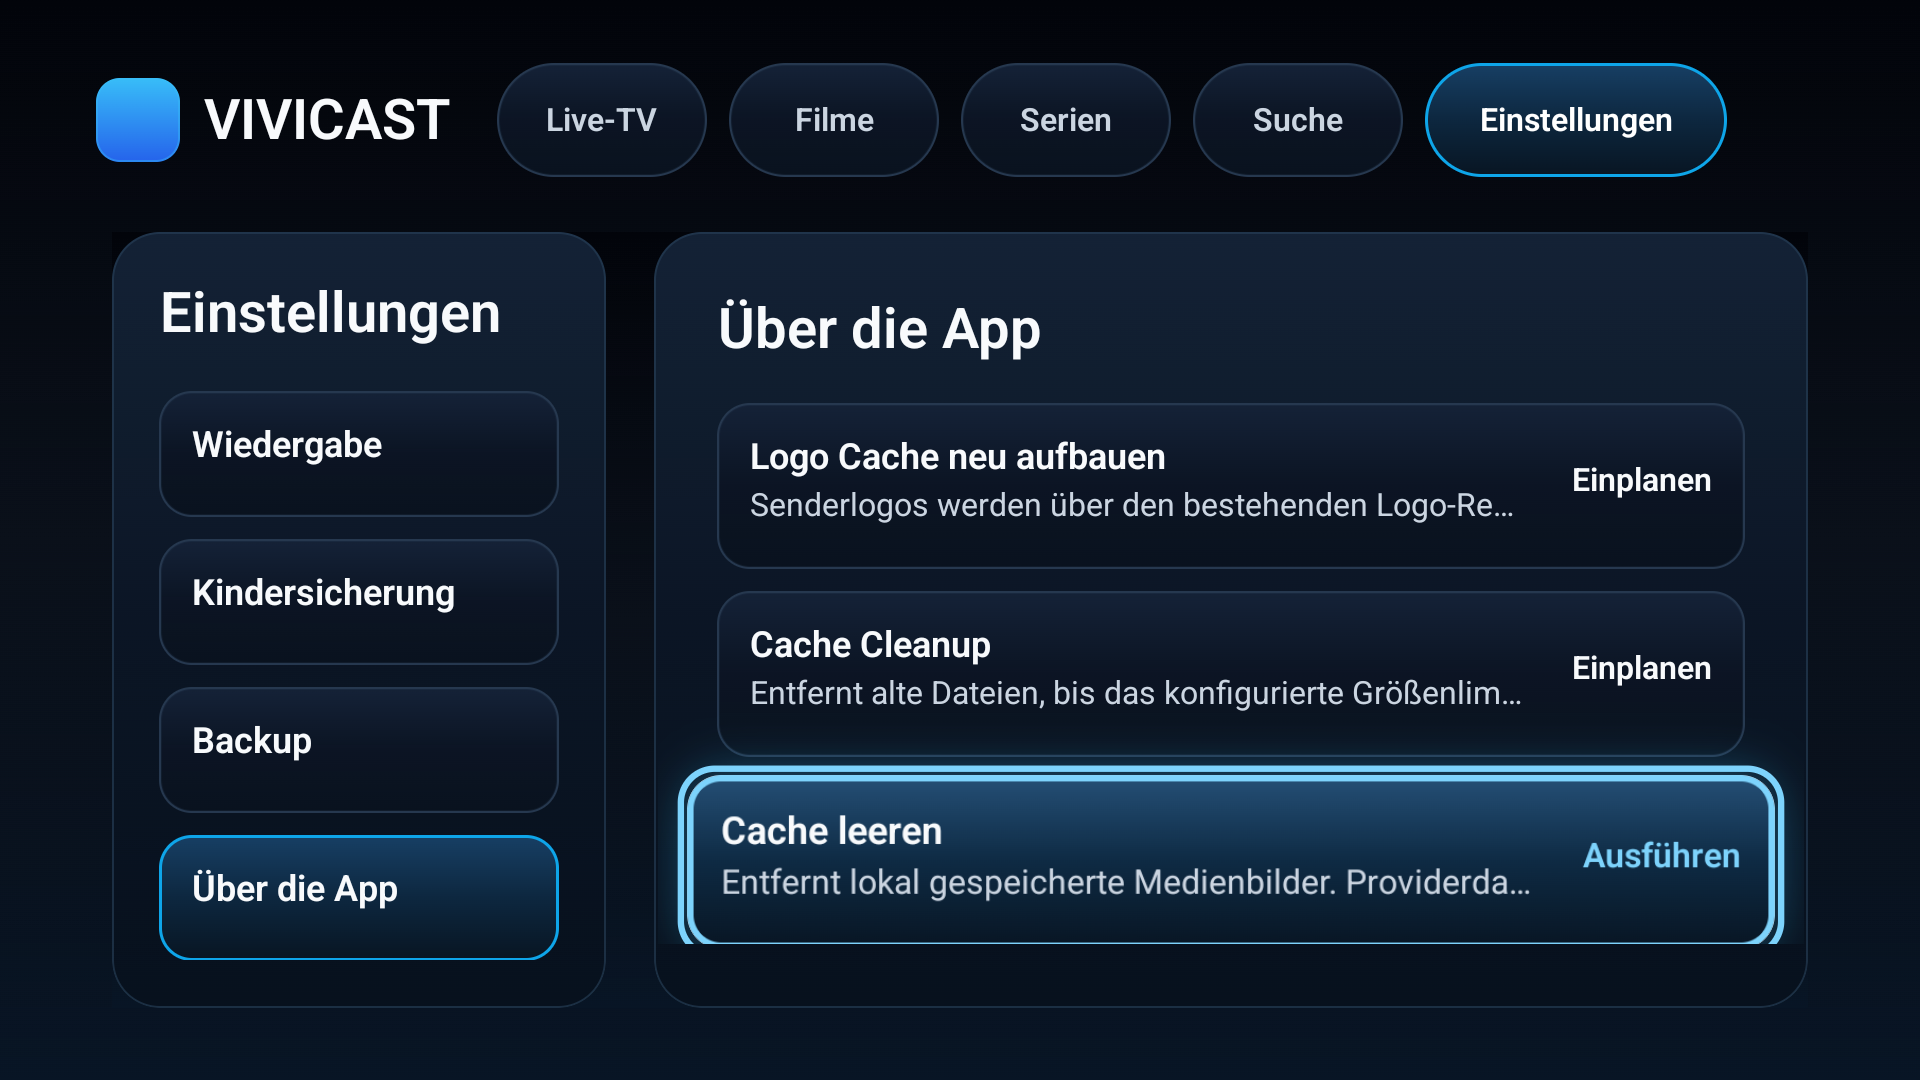
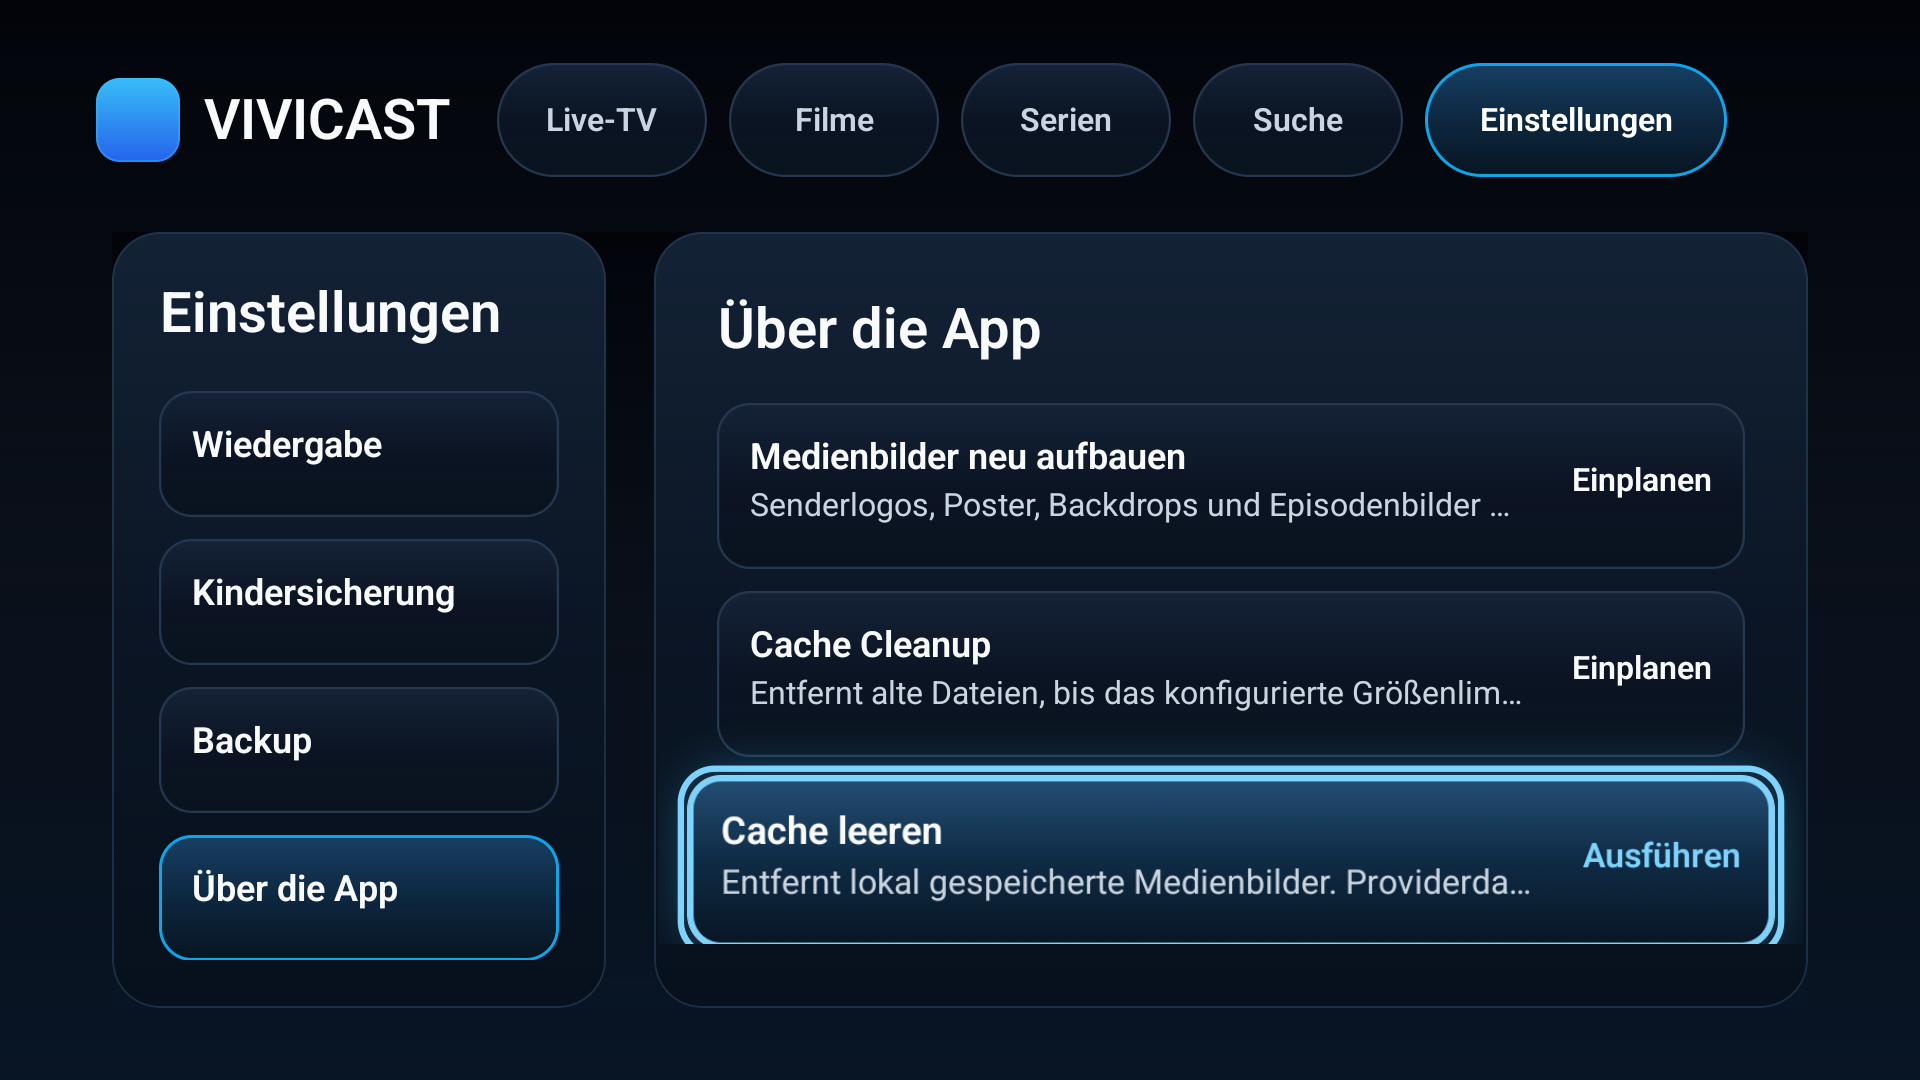
Extend media image cache refresh

Changed region(s): [[0.375, 0.3972, 0.7812, 0.4889]]

diff --git a/worker/src/main/java/com/vivicast/tv/worker/RefreshExecution.kt b/worker/src/main/java/com/vivicast/tv/worker/RefreshExecution.kt
@@ -283,43 +283,70 @@ class OkHttpBinaryFetcher(
 }
 
 class DefaultLogoRefresher(
-    private val logoRefreshSource: LogoRefreshSource,
+    private val mediaImageRefreshSource: MediaImageRefreshSource,
     private val mediaCacheStore: MediaCacheStore,
     private val binaryFetcher: BinaryFetcher,
 ) : LogoRefresher {
     override suspend fun refreshLogos() {
-        logoRefreshSource.collectLogoTargets().forEach { target ->
+        mediaImageRefreshSource.collectImageTargets().forEach { target ->
             val key = MediaCacheKey(
-                type = MediaCacheType.ChannelLogo,
+                type = target.type,
                 ownerId = target.ownerId,
-                sourceUrl = target.logoUrl,
+                sourceUrl = target.sourceUrl,
             )
             if (!mediaCacheStore.hasEntry(key)) {
                 runCatching {
-                    mediaCacheStore.put(key, binaryFetcher.fetch(target.logoUrl))
+                    mediaCacheStore.put(key, binaryFetcher.fetch(target.sourceUrl))
                 }
             }
         }
     }
 }
 
-interface LogoRefreshSource {
-    suspend fun collectLogoTargets(): List<LogoRefreshTarget>
+interface MediaImageRefreshSource {
+    suspend fun collectImageTargets(): List<MediaImageRefreshTarget>
 }
 
-data class LogoRefreshTarget(
+data class MediaImageRefreshTarget(
+    val type: MediaCacheType,
     val ownerId: String,
-    val logoUrl: String,
+    val sourceUrl: String,
 )
 
-class RoomLogoRefreshSource(
+class RoomMediaImageRefreshSource(
     private val database: VivicastDatabase,
-) : LogoRefreshSource {
-    override suspend fun collectLogoTargets(): List<LogoRefreshTarget> =
-        database.catalogDao().getChannelsWithLogoUrls().mapNotNull { channel ->
-            val logoUrl = channel.logoUrl?.trim()?.takeIf { it.isNotBlank() } ?: return@mapNotNull null
-            LogoRefreshTarget(ownerId = channel.id, logoUrl = logoUrl)
+) : MediaImageRefreshSource {
+    override suspend fun collectImageTargets(): List<MediaImageRefreshTarget> {
+        val catalogDao = database.catalogDao()
+        return buildList {
+            catalogDao.getChannelsWithLogoUrls().forEach { channel ->
+                addImageTarget(MediaCacheType.ChannelLogo, channel.id, channel.logoUrl)
+            }
+            catalogDao.getMoviesWithImageUrls().forEach { movie ->
+                addImageTarget(MediaCacheType.MoviePoster, movie.id, movie.posterUrl)
+                addImageTarget(MediaCacheType.MovieBackdrop, movie.id, movie.backdropUrl)
+            }
+            catalogDao.getSeriesWithImageUrls().forEach { series ->
+                addImageTarget(MediaCacheType.SeriesPoster, series.id, series.posterUrl)
+                addImageTarget(MediaCacheType.SeriesBackdrop, series.id, series.backdropUrl)
+            }
+            catalogDao.getSeasonsWithImageUrls().forEach { season ->
+                addImageTarget(MediaCacheType.SeasonImage, season.id, season.posterUrl)
+            }
+            catalogDao.getEpisodesWithImageUrls().forEach { episode ->
+                addImageTarget(MediaCacheType.EpisodeImage, episode.id, episode.thumbnailUrl)
+            }
         }
+    }
+
+    private fun MutableList<MediaImageRefreshTarget>.addImageTarget(
+        type: MediaCacheType,
+        ownerId: String,
+        sourceUrl: String?,
+    ) {
+        val normalizedUrl = sourceUrl?.trim()?.takeIf { it.isNotBlank() } ?: return
+        add(MediaImageRefreshTarget(type = type, ownerId = ownerId, sourceUrl = normalizedUrl))
+    }
 }
 
 class DefaultCacheCleaner(

diff --git a/worker/src/test/java/com/vivicast/tv/worker/RefreshExecutionTest.kt b/worker/src/test/java/com/vivicast/tv/worker/RefreshExecutionTest.kt
@@ -139,21 +139,27 @@ class RefreshExecutionTest {
     }
 
     @Test
-    fun logoRefreshCachesMissingLogosAndSkipsUnchangedCachedLogos() = runBlocking {
+    fun logoRefreshCachesMissingMediaImagesAndSkipsUnchangedCachedImages() = runBlocking {
         val cacheStore = FakeMediaCacheStore(
             cached = setOf(MediaCacheKey(MediaCacheType.ChannelLogo, "channel-cached", "https://logos.example/cached.png")),
         )
         val fetcher = FakeBinaryFetcher(
             "https://logos.example/new.png" to byteArrayOf(1, 2, 3),
+            "https://posters.example/movie.png" to byteArrayOf(4, 5, 6),
+            "https://backdrops.example/movie.png" to byteArrayOf(7, 8, 9),
+            "https://episodes.example/episode.png" to byteArrayOf(10, 11, 12),
             "https://logos.example/broken.png" to null,
         )
         val refresher = DefaultLogoRefresher(
-            logoRefreshSource = object : LogoRefreshSource {
-                override suspend fun collectLogoTargets(): List<LogoRefreshTarget> =
+            mediaImageRefreshSource = object : MediaImageRefreshSource {
+                override suspend fun collectImageTargets(): List<MediaImageRefreshTarget> =
                     listOf(
-                        LogoRefreshTarget("channel-cached", "https://logos.example/cached.png"),
-                        LogoRefreshTarget("channel-new", "https://logos.example/new.png"),
-                        LogoRefreshTarget("channel-broken", "https://logos.example/broken.png"),
+                        MediaImageRefreshTarget(MediaCacheType.ChannelLogo, "channel-cached", "https://logos.example/cached.png"),
+                        MediaImageRefreshTarget(MediaCacheType.ChannelLogo, "channel-new", "https://logos.example/new.png"),
+                        MediaImageRefreshTarget(MediaCacheType.MoviePoster, "movie-1", "https://posters.example/movie.png"),
+                        MediaImageRefreshTarget(MediaCacheType.MovieBackdrop, "movie-1", "https://backdrops.example/movie.png"),
+                        MediaImageRefreshTarget(MediaCacheType.EpisodeImage, "episode-1", "https://episodes.example/episode.png"),
+                        MediaImageRefreshTarget(MediaCacheType.ChannelLogo, "channel-broken", "https://logos.example/broken.png"),
                     )
             },
             mediaCacheStore = cacheStore,
@@ -162,8 +168,25 @@ class RefreshExecutionTest {
 
         refresher.refreshLogos()
 
-        assertEquals(listOf("https://logos.example/new.png", "https://logos.example/broken.png"), fetcher.urls)
-        assertEquals(listOf("channel-new"), cacheStore.putKeys.map { it.ownerId })
+        assertEquals(
+            listOf(
+                "https://logos.example/new.png",
+                "https://posters.example/movie.png",
+                "https://backdrops.example/movie.png",
+                "https://episodes.example/episode.png",
+                "https://logos.example/broken.png",
+            ),
+            fetcher.urls,
+        )
+        assertEquals(
+            listOf(
+                MediaCacheType.ChannelLogo to "channel-new",
+                MediaCacheType.MoviePoster to "movie-1",
+                MediaCacheType.MovieBackdrop to "movie-1",
+                MediaCacheType.EpisodeImage to "episode-1",
+            ),
+            cacheStore.putKeys.map { it.type to it.ownerId },
+        )
     }
 
     @Test

diff --git a/core/database/src/main/java/com/vivicast/tv/core/database/dao/CatalogDao.kt b/core/database/src/main/java/com/vivicast/tv/core/database/dao/CatalogDao.kt
@@ -47,6 +47,44 @@ interface CatalogDao {
     )
     suspend fun getChannelsWithLogoUrls(): List<ChannelEntity>
 
+    @Query(
+        """
+        SELECT * FROM movies
+        WHERE (posterUrl IS NOT NULL AND TRIM(posterUrl) != '')
+           OR (backdropUrl IS NOT NULL AND TRIM(backdropUrl) != '')
+        ORDER BY providerId, name COLLATE NOCASE
+        """,
+    )
+    suspend fun getMoviesWithImageUrls(): List<MovieEntity>
+
+    @Query(
+        """
+        SELECT * FROM series
+        WHERE (posterUrl IS NOT NULL AND TRIM(posterUrl) != '')
+           OR (backdropUrl IS NOT NULL AND TRIM(backdropUrl) != '')
+        ORDER BY providerId, name COLLATE NOCASE
+        """,
+    )
+    suspend fun getSeriesWithImageUrls(): List<SeriesEntity>
+
+    @Query(
+        """
+        SELECT * FROM seasons
+        WHERE posterUrl IS NOT NULL AND TRIM(posterUrl) != ''
+        ORDER BY providerId, seriesId, seasonNumber
+        """,
+    )
+    suspend fun getSeasonsWithImageUrls(): List<SeasonEntity>
+
+    @Query(
+        """
+        SELECT * FROM episodes
+        WHERE thumbnailUrl IS NOT NULL AND TRIM(thumbnailUrl) != ''
+        ORDER BY providerId, seriesId, seasonNumber, episodeNumber
+        """,
+    )
+    suspend fun getEpisodesWithImageUrls(): List<EpisodeEntity>
+
     @Query("SELECT * FROM movies WHERE providerId = :providerId")
     suspend fun getMovies(providerId: String): List<MovieEntity>
 

diff --git a/feature/settings/src/main/java/com/vivicast/tv/feature/settings/SettingsRoute.kt b/feature/settings/src/main/java/com/vivicast/tv/feature/settings/SettingsRoute.kt
@@ -1288,12 +1288,12 @@ private fun MaintenanceSettingsPanel(
 
         item {
             VivicastSettingsRow(
-                title = "Logo Cache neu aufbauen",
-                help = "Senderlogos werden über den bestehenden Logo-Refresh-Worker aktualisiert.",
+                title = "Medienbilder neu aufbauen",
+                help = "Senderlogos, Poster, Backdrops und Episodenbilder werden über den bestehenden Refresh-Worker aktualisiert.",
                 value = "Einplanen",
                 onClick = {
                     onRunLogoRefresh()
-                    message = "Logo Cache Neuaufbau wurde eingeplant."
+                    message = "Medienbild-Neuaufbau wurde eingeplant."
                 },
             )
         }

diff --git a/app/src/main/java/com/vivicast/tv/di/AppContainer.kt b/app/src/main/java/com/vivicast/tv/di/AppContainer.kt
@@ -40,7 +40,7 @@ import com.vivicast.tv.worker.RefreshWorkScheduler
 import com.vivicast.tv.worker.RefreshWorkerRegistry
 import com.vivicast.tv.worker.RefreshWorkerRunner
 import com.vivicast.tv.worker.RoomEpgSourceReader
-import com.vivicast.tv.worker.RoomLogoRefreshSource
+import com.vivicast.tv.worker.RoomMediaImageRefreshSource
 import com.vivicast.tv.worker.WorkManagerRefreshWorkScheduler
 import kotlinx.coroutines.flow.first
 import java.io.File
@@ -124,7 +124,7 @@ class AppContainer(
             epgImportRepository = epgImportRepository,
         )
         val logoRefresher = DefaultLogoRefresher(
-            logoRefreshSource = RoomLogoRefreshSource(database),
+            mediaImageRefreshSource = RoomMediaImageRefreshSource(database),
             mediaCacheStore = mediaCacheStore,
             binaryFetcher = binaryFetcher,
         )

diff --git a/core/cache/src/main/java/com/vivicast/tv/core/cache/MediaCache.kt b/core/cache/src/main/java/com/vivicast/tv/core/cache/MediaCache.kt
@@ -32,7 +32,9 @@ data class MediaCacheKey(
 enum class MediaCacheType(val directoryName: String) {
     ChannelLogo("channel-logos"),
     MoviePoster("movie-posters"),
+    MovieBackdrop("movie-backdrops"),
     SeriesPoster("series-posters"),
+    SeriesBackdrop("series-backdrops"),
     SeasonImage("season-images"),
     EpisodeImage("episode-images"),
 }

diff --git a/docs/PLAN.md b/docs/PLAN.md
@@ -52,14 +52,15 @@ Done:
   - Settings Allgemein refresh controls are wired to DataStore and WorkManager scheduling
   - Android TV emulator D-Pad smoke check passed for Settings Allgemein refresh focus and manual refresh enqueue
   - media cache foundation exists in `:core:cache` with file-backed storage, URL hashing, stats, clear, and size cleanup
-  - logo refresh workers now cache changed channel logos and cache cleanup workers enforce the configured DataStore size limit
-  - Settings "Über die App" exposes cache stats, cache size selection, logo refresh scheduling, cache cleanup scheduling, and local cache clear actions
+  - media image refresh workers now cache changed channel logos, movie posters/backdrops, series posters/backdrops, season images, and episode thumbnails
+  - cache cleanup workers enforce the configured DataStore size limit
+  - Settings "Über die App" exposes cache stats, cache size selection, media image refresh scheduling, cache cleanup scheduling, and local cache clear actions
   - Android TV emulator D-Pad smoke check passed for the Settings cache maintenance view
 
 Still important:
 
 - Existing UI uses demo data.
-- Full end-user manual EPG channel mapping UI, poster/backdrop/episode cache population and consumption, and Media3 playback are not complete yet.
+- Full end-user manual EPG channel mapping UI, cached asset UI consumption, and Media3 playback are not complete yet.
 - The complete `external-docs/codex/` folder and all links to it are ignored as binding sources.
 
 ## Working Rules
@@ -89,7 +90,7 @@ No Xtream Codes test credentials are available yet. Ask the user only when Xtrea
 
 ## Next Steps
 
-1. Continue Phase 04 with poster/backdrop/episode cache refresh preparation and any remaining ingest/refresh polish before moving to Phase 05.
+1. Continue Phase 04 with cached asset consumption preparation and any remaining ingest/refresh polish before moving to Phase 05.
 2. Keep Phase 03 provider security boundaries intact: no plaintext credentials in Room, logs, screenshots, docs, or demo data.
 
 ## Last Updated

diff --git a/docs/phase-04-ingest-refresh-and-epg.md b/docs/phase-04-ingest-refresh-and-epg.md
@@ -110,11 +110,12 @@ Implemented and validated:
   - network constraints for remote refresh jobs and no network constraint for cache cleanup
 - Media cache foundation in `:core:cache`:
   - file-backed cache store for channel logos, movie posters, series posters, season images, and episode images
+  - dedicated cache directories for movie and series backdrops
   - source URLs are hashed for cache keys and are not stored as plaintext cache metadata
   - stats, clear, owner replacement, and least-recently-accessed size cleanup behavior
 - Logo/cache worker runtime:
-  - channel logo refresh now reads Room channel logo URLs and caches missing or changed logos
-  - per-logo download failures are isolated so one broken image does not fail the whole refresh
+  - media image refresh now reads Room image URLs for channel logos, movie posters/backdrops, series posters/backdrops, season images, and episode thumbnails
+  - per-image download failures are isolated so one broken image does not fail the whole refresh
   - cache cleanup uses the configured DataStore cache size limit
 - Network-backed refresh execution foundation:
   - runtime M3U playlist fetch, parse, and Room import from encrypted provider credentials
@@ -140,7 +141,7 @@ Implemented and validated:
 - Cache maintenance settings hooks:
   - Settings "Über die App" reads media cache stats from `MediaCacheStore`
   - cache size selection updates DataStore-backed cache preferences
-  - logo refresh and cache cleanup actions enqueue the existing WorkManager jobs
+  - media image refresh and cache cleanup actions enqueue the existing WorkManager jobs
   - local cache clear removes stored media cache files and reloads cache stats
   - settings section matching uses the existing settings-section order instead of a hard-coded localized label
 
@@ -167,6 +168,7 @@ Validated with:
 - `.\gradlew.bat :core:cache:testDebugUnitTest :worker:testDebugUnitTest :worker:compileDebugKotlin`
 - `.\gradlew.bat :core:cache:testDebugUnitTest :worker:testDebugUnitTest :app:compileDebugKotlin assembleDebug`
 - `.\gradlew.bat :feature:settings:compileDebugKotlin :app:installDebug`
+- `.\gradlew.bat :core:database:compileDebugKotlin :worker:compileDebugKotlin :worker:testDebugUnitTest :core:cache:testDebugUnitTest`
 - Android TV emulator install, launch, and D-Pad smoke test for Settings EPG master-detail navigation
 - Android TV emulator install, launch, and D-Pad smoke test for Settings Allgemein refresh focus and manual refresh enqueue
 - Android TV emulator D-Pad smoke test for Settings cache maintenance navigation, cache job actions, and focus visibility
@@ -183,7 +185,6 @@ Still open:
 
 - Full end-user manual mapping UI is still open; the repository and import behavior are ready for it.
 - Cached assets are not yet consumed by UI image loading; current Phase 04 work prepares local storage and worker maintenance only.
-- Poster, backdrop, season, and episode cache population is still pending beyond the generic cache store.
 
 ## Definition of Done
 

diff --git a/docs/roadmap.md b/docs/roadmap.md
@@ -66,8 +66,8 @@ Still stubbed or missing:
 - EPG, media, favorites, and playback repositories are still contracts or minimal implementations; `:data:media` now includes Room-backed M3U live and Xtream catalog import paths, and `:data:epg` now includes a Room-backed XMLTV import path.
 - M3U and XMLTV modules include parser implementations; Xtream has a request/transport client foundation and response parser.
 - Player has only a controller contract, with no Media3 playback implementation.
-- Worker contains job-name constants, concrete WorkManager refresh wrappers, request scheduling, network-backed refresh runner wiring, a testable refresh orchestrator, and diagnostics redaction foundation.
-- `:core:cache` contains the file-backed media cache foundation for logo/poster/image storage, stats, clear, and size cleanup.
+- Worker contains job-name constants, concrete WorkManager refresh wrappers, request scheduling, network-backed refresh runner wiring, a testable refresh orchestrator, diagnostics redaction foundation, and media image cache refresh for logos, posters, backdrops, season images, and episode thumbnails.
+- `:core:cache` contains the file-backed media cache foundation for logo/poster/backdrop/image storage, stats, clear, and size cleanup.
 - Settings exposes refresh controls, EPG source/provider priority management, and cache maintenance hooks for local cache stats, size limits, logo refresh, cleanup, and clearing.
 - Existing UI uses demo data and must later be connected to local persisted data.
 